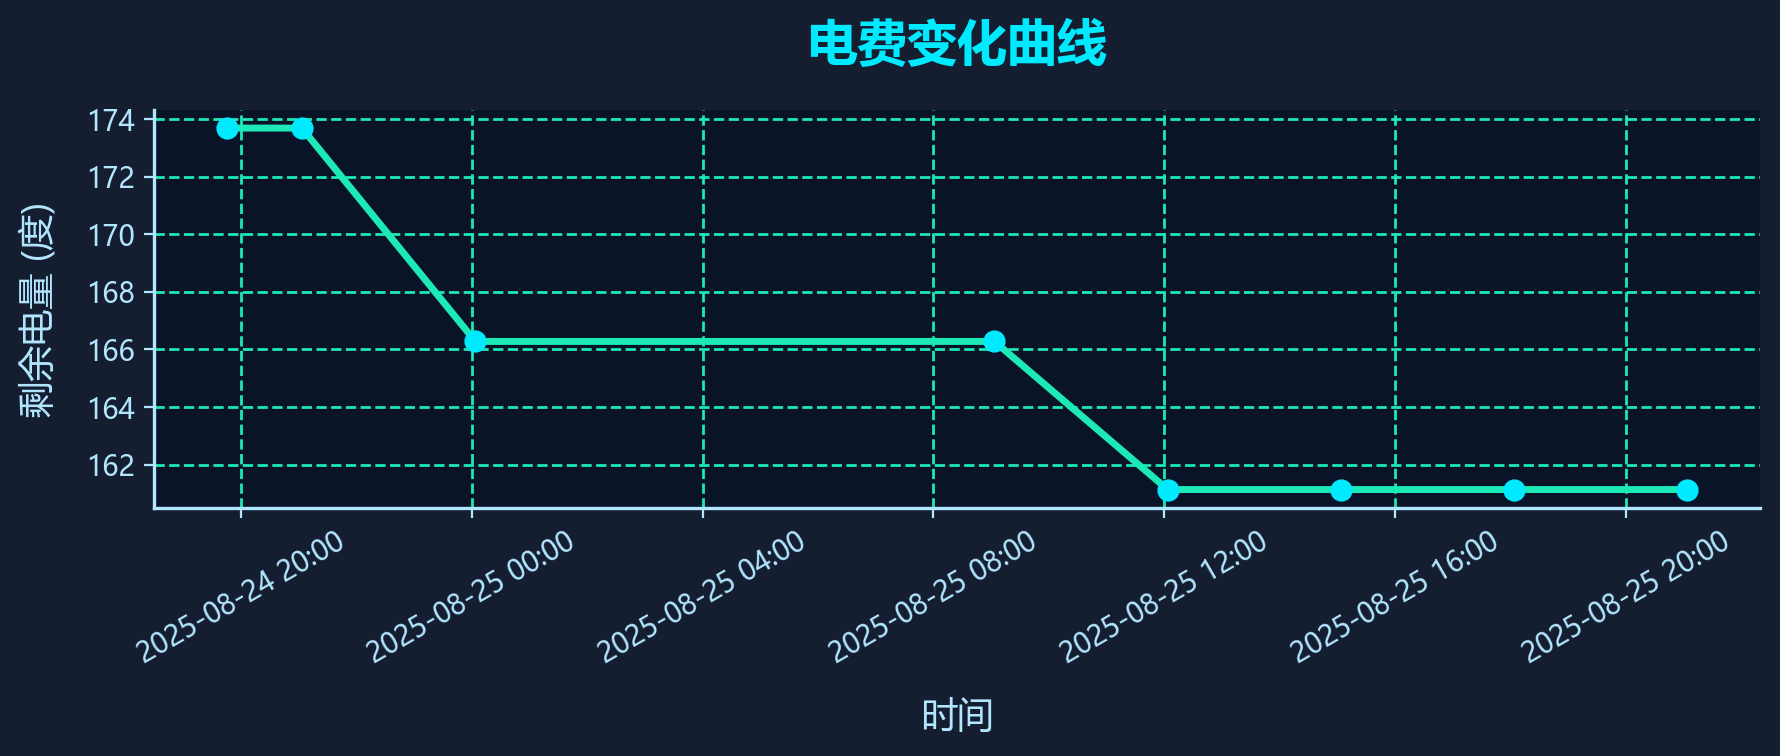
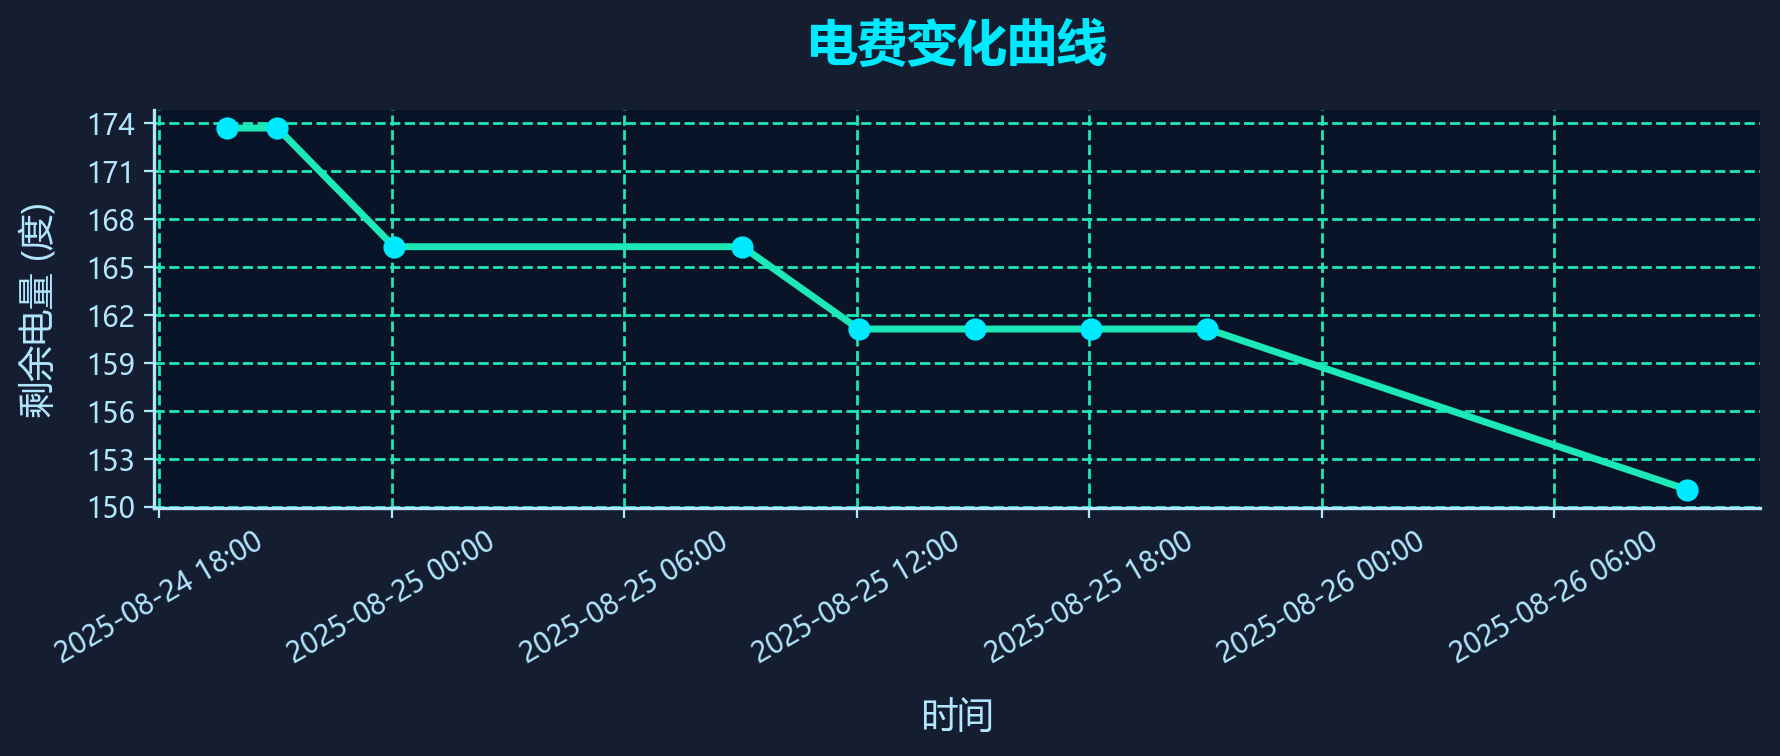
2025-08-26 09:26 自动提交电费变更

diff --git a/data/debug_page_source.html b/data/debug_page_source.html
@@ -2,7 +2,7 @@
     <meta http-equiv="Content-Type" content="text/html; charset=UTF-8">
     <meta http-equiv="X-UA-Compatible" content="IE=edge">
     <meta name="viewport" content="width=device-width, initial-scale=1, user-scalable=no">
-    <meta name="_csrf" content="53e9b663-52fa-44a6-ba66-29c8ee00d291">
+    <meta name="_csrf" content="993f522d-c940-46e1-abb1-56fe26cfe5bf">
     <meta name="_csrf_header" content="X-CSRF-TOKEN">
     <link type="image/png" href="/epay/images/nju/icon.png" rel="shortcut icon">
     <link type="text/css" rel="stylesheet" href="/epay/css/wxpage/weui.min.css">
@@ -32,7 +32,7 @@
 
 
 <body>
-<div id="app"><div class="centent"><div class="top"><div class="clearfix"><span class="fl">持卡人姓名：<i>吴相民</i></span></div> <div class="clearfix"><span class="fl">校园卡余额：<i class="green">0.00元</i></span></div></div> <div class="line"></div> <div class="cont"><div class="clearfix"><span class="fl">缴费地址：<i>仙林校区 18幢 18栋第17层1702</i></span></div> <div class="clearfix"><span class="fl">剩余电量：<i>161.13度</i><em></em></span></div> <!----> <!----></div> <div class="num clearfix"><div style="display: flex; flex-wrap: wrap;"><span class="active">10元</span><span class="">20元</span><span class="">50元</span><span class="">100元</span><span class="">200元</span><span class="">自定义</span></div></div> <div class="inputbox" style="display: none;"><input type="text" placeholder="请输入充值金额" pattern="[0-9]*" maxlength="4" id="amount"></div> <div class="footer">充值</div> <div class="desc">充值时间：每天00:05-23:55</div> <div class="wapat"><div class="wapat-inner"><div class="wapat-title">错误！</div> <div class="wapat-btn-box"><div class="wapat-btn wapat-btn-ok">确定</div></div></div></div></div></div>
+<div id="app"><div class="centent"><div class="top"><div class="clearfix"><span class="fl">持卡人姓名：<i>吴相民</i></span></div> <div class="clearfix"><span class="fl">校园卡余额：<i class="green">0.00元</i></span></div></div> <div class="line"></div> <div class="cont"><div class="clearfix"><span class="fl">缴费地址：<i>仙林校区 18幢 18栋第17层1702</i></span></div> <div class="clearfix"><span class="fl">剩余电量：<i>151.09度</i><em></em></span></div> <!----> <!----></div> <div class="num clearfix"><div style="display: flex; flex-wrap: wrap;"><span class="active">10元</span><span class="">20元</span><span class="">50元</span><span class="">100元</span><span class="">200元</span><span class="">自定义</span></div></div> <div class="inputbox" style="display: none;"><input type="text" placeholder="请输入充值金额" pattern="[0-9]*" maxlength="4" id="amount"></div> <div class="footer">充值</div> <div class="desc">充值时间：每天00:05-23:55</div> <div class="wapat"><div class="wapat-inner"><div class="wapat-title">错误！</div> <div class="wapat-btn-box"><div class="wapat-btn wapat-btn-ok">确定</div></div></div></div></div></div>
 
 
 
